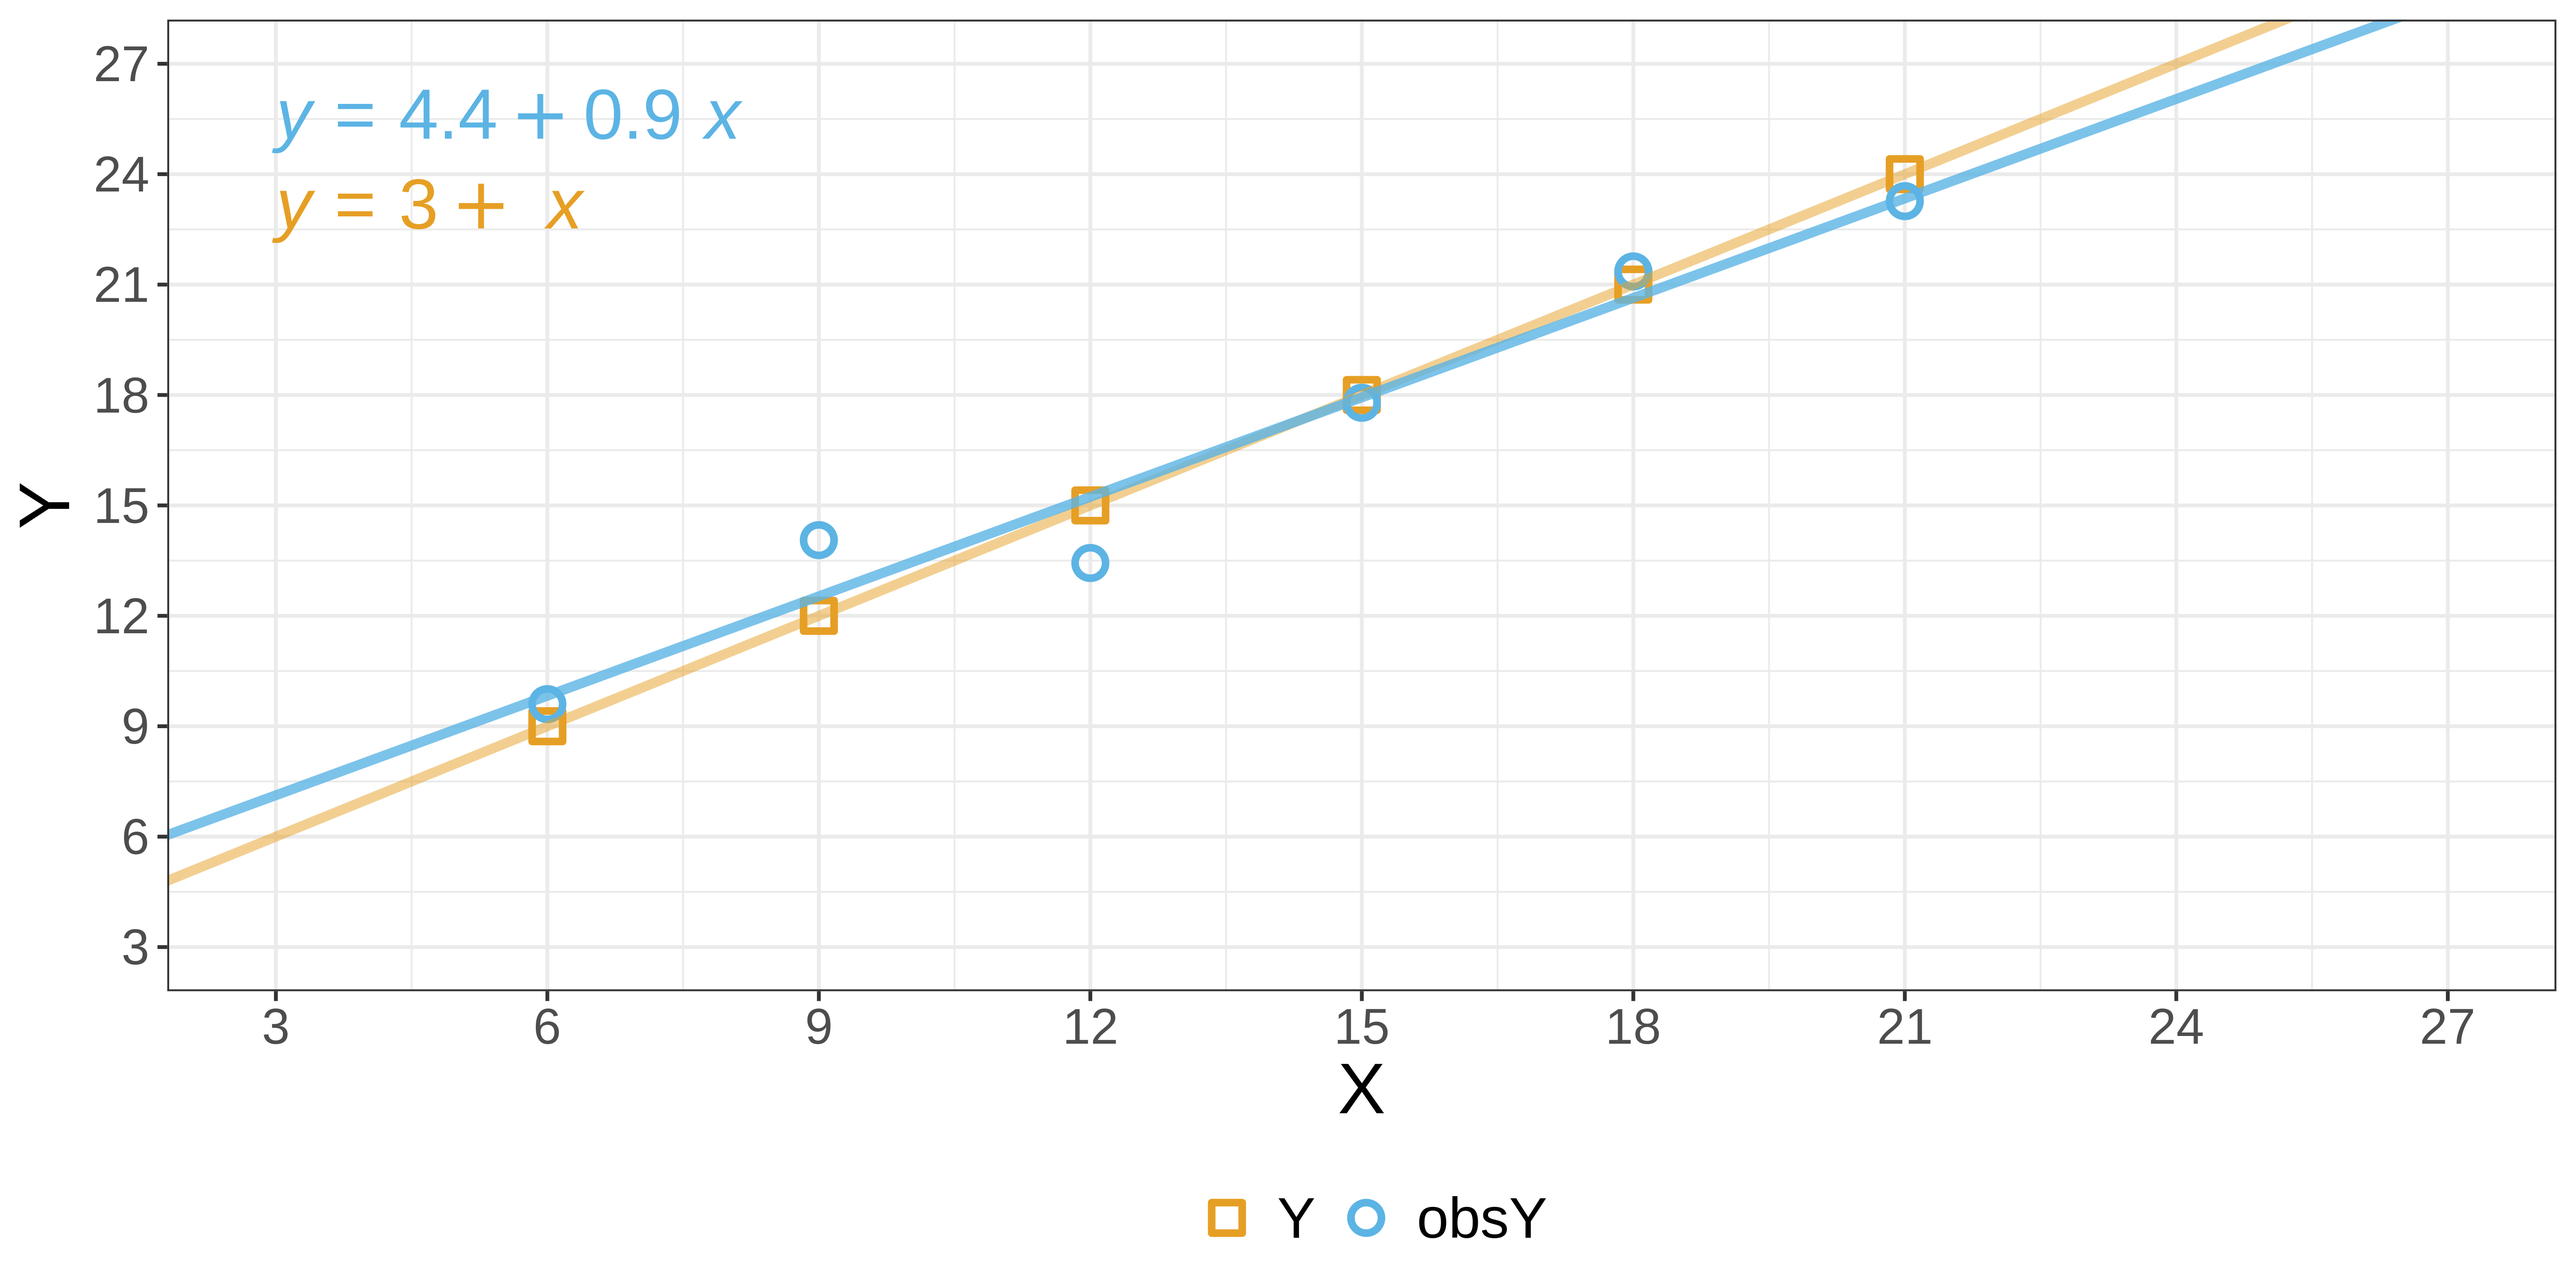
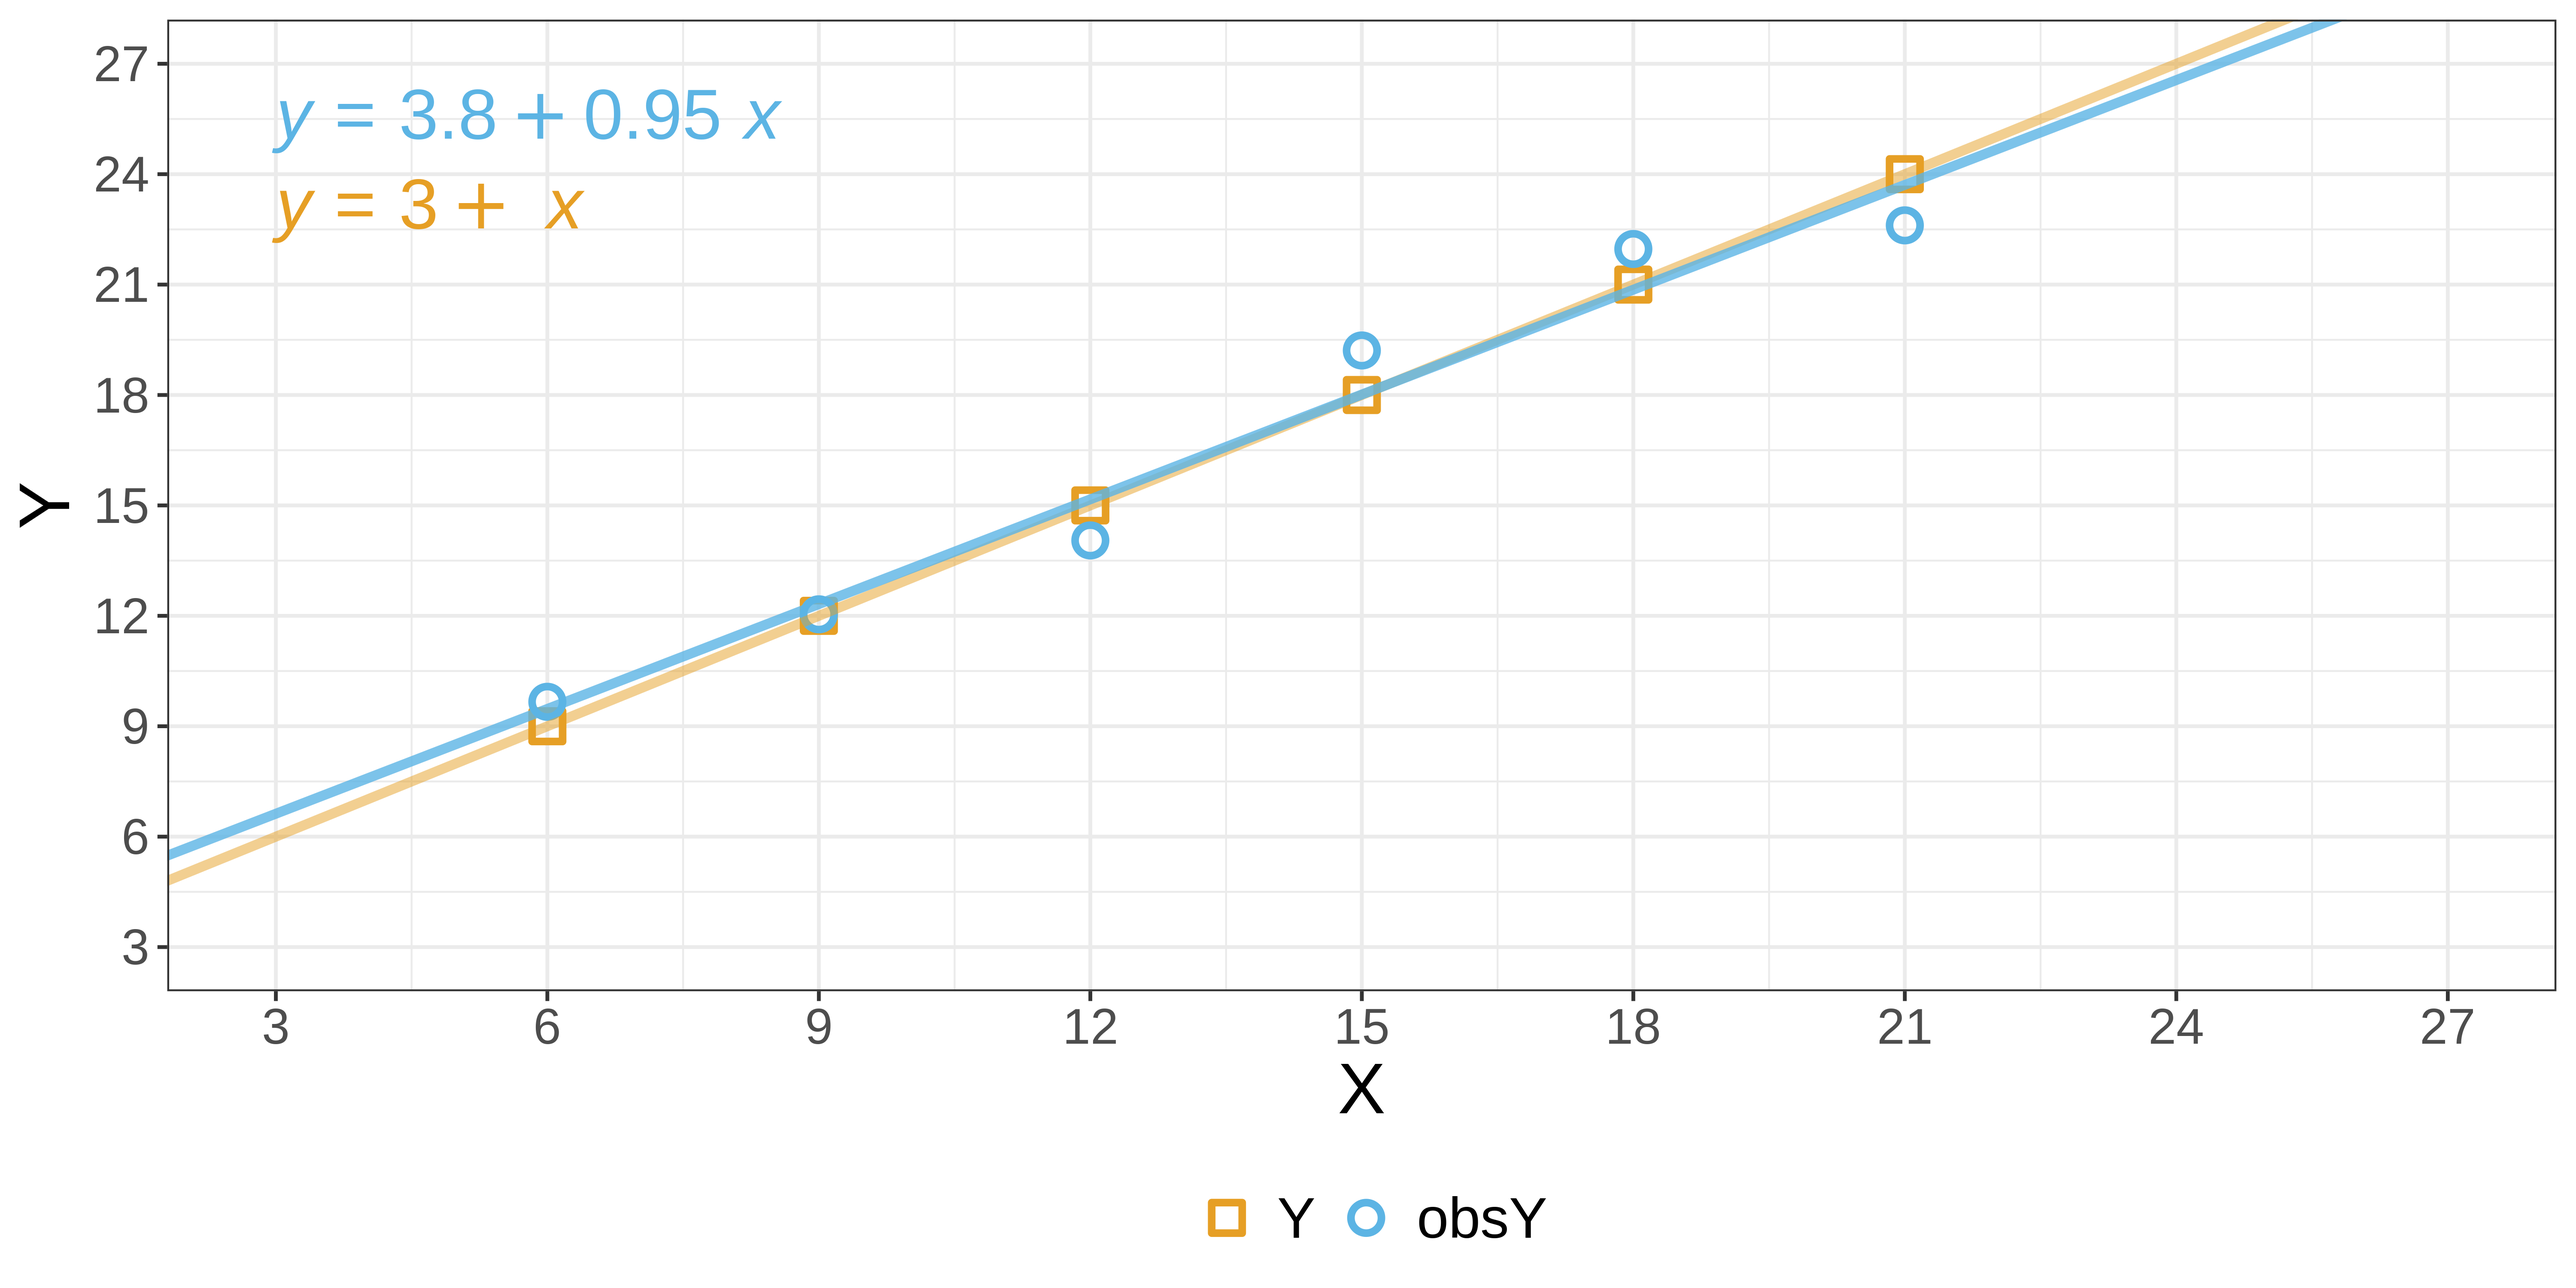
Built site for gh-pages

diff --git a/slides/week03_slides_part1.html b/slides/week03_slides_part1.html
@@ -1406,7 +1406,7 @@ ojs_define <- function(..., .session = shiny::getDefaultReactiveDomain()) {
 <!--html_preserve-->
 
 <script type="application/shiny-prerendered" data-context="execution_dependencies">
-{"type":"list","attributes":{"names":{"type":"character","attributes":{},"value":["packages"]}},"value":[{"type":"list","attributes":{"names":{"type":"character","attributes":{},"value":["packages","version"]},"class":{"type":"character","attributes":{},"value":["data.frame"]},"row.names":{"type":"integer","attributes":{},"value":[1,2,3,4,5,6,7,8,9,10,11,12,13,14,15,16,17,18,19,20,21,22,23,24,25,26,27,28,29,30,31,32,33,34,35,36,37,38,39,40,41,42,43,44,45,46,47,48,49,50,51,52,53,54,55,56,57,58,59,60,61,62,63,64,65,66,67,68,69,70,71,72,73,74,75,76,77,78,79,80,81,82]}},"value":[{"type":"character","attributes":{},"value":["assertthat","backports","base","broom","cellranger","cli","colorspace","compiler","crayon","datasets","DBI","dbplyr","digest","dplyr","ellipsis","evaluate","fansi","farver","fastmap","forcats","fs","gargle","generics","ggplot2","glue","googledrive","googlesheets4","graphics","grDevices","grid","gtable","haven","hms","htmltools","httpuv","httr","ISLR2","jsonlite","knitr","labeling","later","lifecycle","lubridate","magrittr","MASS","methods","mime","modelr","munsell","pillar","pkgconfig","promises","purrr","R6","RColorBrewer","Rcpp","readr","readxl","renv","reprex","rlang","rmarkdown","rvest","scales","shiny","stats","stringi","stringr","tibble","tidyr","tidyselect","tidyverse","tools","tzdb","utf8","utils","vctrs","withr","xfun","xml2","xtable","yaml"]},{"type":"character","attributes":{},"value":["0.2.1","1.4.1","4.2.1","1.0.1","1.1.0","3.4.1","2.0-3","4.2.1","1.5.2","4.2.1","1.1.3","2.2.1","0.6.29","1.0.10","0.3.2","0.17","1.0.3","2.1.1","1.1.0","0.5.2","1.5.2","1.2.1","0.1.3","3.3.6","1.6.2","2.0.0","1.0.1","4.2.1","4.2.1","4.2.1","0.3.1","2.5.1","1.1.2","0.5.3","1.6.6","1.4.4","1.3-1","1.8.2","1.40","0.4.2","1.3.0","1.0.3","1.8.0","2.0.3","7.3-57","4.2.1","0.12","0.1.9","0.5.0","1.8.1","2.0.3","1.2.0.1","0.3.5","2.5.1","1.1-3","1.0.9","2.1.3","1.4.1","0.16.0","2.0.2","1.0.6","2.17","1.0.3","1.2.1","1.7.2","4.2.1","1.7.8","1.4.1","3.1.8","1.2.1","1.2.0","1.3.2","4.2.1","0.3.0","1.2.2","4.2.1","0.4.2","2.5.0","0.33","1.3.3","1.8-4","2.3.5"]}]}]}
+{"type":"list","attributes":{"names":{"type":"character","attributes":{},"value":["packages"]}},"value":[{"type":"list","attributes":{"names":{"type":"character","attributes":{},"value":["packages","version"]},"class":{"type":"character","attributes":{},"value":["data.frame"]},"row.names":{"type":"integer","attributes":{},"value":[1,2,3,4,5,6,7,8,9,10,11,12,13,14,15,16,17,18,19,20,21,22,23,24,25,26,27,28,29,30,31,32,33,34,35,36,37,38,39,40,41,42,43,44,45,46,47,48,49,50,51,52,53,54,55,56,57,58,59,60,61,62,63,64,65,66,67,68,69,70,71,72,73,74,75,76,77,78,79,80,81,82]}},"value":[{"type":"character","attributes":{},"value":["assertthat","backports","base","broom","cellranger","cli","colorspace","compiler","crayon","datasets","DBI","dbplyr","digest","dplyr","ellipsis","evaluate","fansi","farver","fastmap","forcats","fs","gargle","generics","ggplot2","glue","googledrive","googlesheets4","graphics","grDevices","grid","gtable","haven","hms","htmltools","httpuv","httr","ISLR2","jsonlite","knitr","labeling","later","lifecycle","lubridate","magrittr","MASS","methods","mime","modelr","munsell","pillar","pkgconfig","promises","purrr","R6","RColorBrewer","Rcpp","readr","readxl","renv","reprex","rlang","rmarkdown","rvest","scales","shiny","stats","stringi","stringr","tibble","tidyr","tidyselect","tidyverse","tools","tzdb","utf8","utils","vctrs","withr","xfun","xml2","xtable","yaml"]},{"type":"character","attributes":{},"value":["0.2.1","1.4.1","4.2.1","1.0.1","1.1.0","3.4.1","2.0-3","4.2.1","1.5.2","4.2.1","1.1.3","2.2.1","0.6.30","1.0.10","0.3.2","0.17","1.0.3","2.1.1","1.1.0","0.5.2","1.5.2","1.2.1","0.1.3","3.3.6","1.6.2","2.0.0","1.0.1","4.2.1","4.2.1","4.2.1","0.3.1","2.5.1","1.1.2","0.5.3","1.6.6","1.4.4","1.3-1","1.8.2","1.40","0.4.2","1.3.0","1.0.3","1.8.0","2.0.3","7.3-57","4.2.1","0.12","0.1.9","0.5.0","1.8.1","2.0.3","1.2.0.1","0.3.5","2.5.1","1.1-3","1.0.9","2.1.3","1.4.1","0.16.0","2.0.2","1.0.6","2.17","1.0.3","1.2.1","1.7.2","4.2.1","1.7.8","1.4.1","3.1.8","1.2.1","1.2.0","1.3.2","4.2.1","0.3.0","1.2.2","4.2.1","0.4.2","2.5.0","0.33","1.3.3","1.8-4","2.3.6"]}]}]}
 </script>
 <!--/html_preserve-->
 

diff --git a/index.html b/index.html
@@ -313,7 +313,7 @@ ul.task-list li input[type="checkbox"] {
 <section id="our-team" class="level1">
 <h1>🧑🏻🏫 Our Team</h1>
 <div class="panel-tabset">
-<ul class="nav nav-tabs" role="tablist"><li class="nav-item" role="presentation"><a class="nav-link active" id="tabset-1-1-tab" data-bs-toggle="tab" data-bs-target="#tabset-1-1" role="tab" aria-controls="tabset-1-1" aria-selected="true" aria-current="page">Teacher Responsible</a></li><li class="nav-item" role="presentation"><a class="nav-link" id="tabset-1-2-tab" data-bs-toggle="tab" data-bs-target="#tabset-1-2" role="tab" aria-controls="tabset-1-2" aria-selected="false">Teaching Staff</a></li><li class="nav-item" role="presentation"><a class="nav-link" id="tabset-1-3-tab" data-bs-toggle="tab" data-bs-target="#tabset-1-3" role="tab" aria-controls="tabset-1-3" aria-selected="false">Administrative Support</a></li></ul>
+<ul class="nav nav-tabs" role="tablist"><li class="nav-item" role="presentation"><a class="nav-link active" id="tabset-1-1-tab" data-bs-toggle="tab" data-bs-target="#tabset-1-1" role="tab" aria-controls="tabset-1-1" aria-selected="true" aria-current="page">Teacher Responsible</a></li><li class="nav-item" role="presentation"><a class="nav-link" id="tabset-1-2-tab" data-bs-toggle="tab" data-bs-target="#tabset-1-2" role="tab" aria-controls="tabset-1-2" aria-selected="false">Teaching Staff</a></li><li class="nav-item" role="presentation"><a class="nav-link" id="tabset-1-3-tab" data-bs-toggle="tab" data-bs-target="#tabset-1-3" role="tab" aria-controls="tabset-1-3" aria-selected="false">Students</a></li><li class="nav-item" role="presentation"><a class="nav-link" id="tabset-1-4-tab" data-bs-toggle="tab" data-bs-target="#tabset-1-4" role="tab" aria-controls="tabset-1-4" aria-selected="false">Administrative Support</a></li></ul>
 <div class="tab-content">
 <div id="tabset-1-1" class="tab-pane active" role="tabpanel" aria-labelledby="tabset-1-1-tab">
 <p><img src="./figures/people/JonathanCardosoSilva_2022.jpg" class="img-fluid" style="width:5em" data-fig-align="left" alt="Photo of Dr. Jonathan Cardoso-Silva"><br>
@@ -343,6 +343,12 @@ document.write('<a h'+'ref'+'="ma'+'ilto'+':'+e+'" clas'+'s="em' + 'ail">'+e+'<\
 <strong><a href="http://boychenko.pro/">Anton Boichenko</a></strong> <br> Guest Teacher at the <a href="https://lse.ac.uk/dsi">LSE Data Science Institute</a><br> Product Developer at <a href="https://decoded.com/">Decoded</a> <br> MSc in Applied Social Data Science (LSE)</p>
 </div>
 <div id="tabset-1-3" class="tab-pane" role="tabpanel" aria-labelledby="tabset-1-3-tab">
+<p><img src="./figures/people/Yoyo.png" class="img-fluid" style="width:5em" data-fig-align="left" alt="Photo of Zhang Ruishan (Yoyo)"><br>
+<strong>Zhang Ruishan (Yoyo)</strong> <br> 1st Year BSc Economics Student <br> Course Representative for DS202</p>
+<p><img src="./figures/people/Rachitha.png" class="img-fluid" style="width:5em" data-fig-align="left" alt="Photo of Rachitha Raghuram"><br>
+<strong>Rachitha Raghuram</strong> <br> 2nd Year BSc Economics Student <br> Course Representative for DS202</p>
+</div>
+<div id="tabset-1-4" class="tab-pane" role="tabpanel" aria-labelledby="tabset-1-4-tab">
 <p><img src="./figures/people/Nathaniel-Ocquaye-Cropped-450x450.jpg" class="img-fluid" style="width:5em" data-fig-align="left" alt="Photo of Nathaniel Ocquaye"><br>
 <strong>Nathaniel Ocquaye</strong> <br> <em>Teaching Support and Events Officer</em><br> Office: PEL 9.01<br> Email: <script type="text/javascript">
 <!--

diff --git a/slides/week01_slides_part2.html b/slides/week01_slides_part2.html
@@ -1086,12 +1086,12 @@ communicate-&gt;end
 <pre><code># A tibble: 6 × 3
       X     Y  obsY
   &lt;int&gt; &lt;int&gt; &lt;dbl&gt;
-1     6     9  9.60
-2     9    12 14.1 
-3    12    15 13.4 
-4    15    18 17.8 
-5    18    21 21.4 
-6    21    24 23.3 </code></pre>
+1     6     9  9.66
+2     9    12 12.0 
+3    12    15 14.0 
+4    15    18 19.2 
+5    18    21 22.0 
+6    21    24 22.6 </code></pre>
 </div>
 </div>
 </section>
@@ -1144,14 +1144,14 @@ communicate-&gt;end
 <div class="cell fragment">
 <div class="cell-output cell-output-stdout">
 <pre><code># A tibble: 6 × 5
-      X     Y  obsY  error absError
-  &lt;int&gt; &lt;int&gt; &lt;dbl&gt;  &lt;dbl&gt;    &lt;dbl&gt;
-1     6     9  9.60 -0.600    0.600
-2     9    12 14.1  -2.06     2.06 
-3    12    15 13.4   1.56     1.56 
-4    15    18 17.8   0.211    0.211
-5    18    21 21.4  -0.358    0.358
-6    21    24 23.3   0.733    0.733</code></pre>
+      X     Y  obsY   error absError
+  &lt;int&gt; &lt;int&gt; &lt;dbl&gt;   &lt;dbl&gt;    &lt;dbl&gt;
+1     6     9  9.66 -0.664    0.664 
+2     9    12 12.0  -0.0409   0.0409
+3    12    15 14.0   0.951    0.951 
+4    15    18 19.2  -1.21     1.21  
+5    18    21 22.0  -0.967    0.967 
+6    21    24 22.6   1.39     1.39  </code></pre>
 </div>
 </div>
 <div class="fragment">
@@ -1159,7 +1159,7 @@ communicate-&gt;end
 <div class="cell" data-output-location="fragment">
 <div class="sourceCode cell-code" id="cb7"><pre class="sourceCode numberSource r code-overflow-wrap number-lines code-with-copy"><code class="sourceCode r"><span id="cb7-1"><a href="#cb7-1"></a><span class="fu">mean</span>(df<span class="sc">$</span>absError)</span></code><button title="Copy to Clipboard" class="code-copy-button"><i class="bi"></i></button></pre></div>
 <div class="cell-output cell-output-stdout">
-<pre><code>[1] 0.9204644</code></pre>
+<pre><code>[1] 0.8706284</code></pre>
 </div>
 </div>
 </div>
